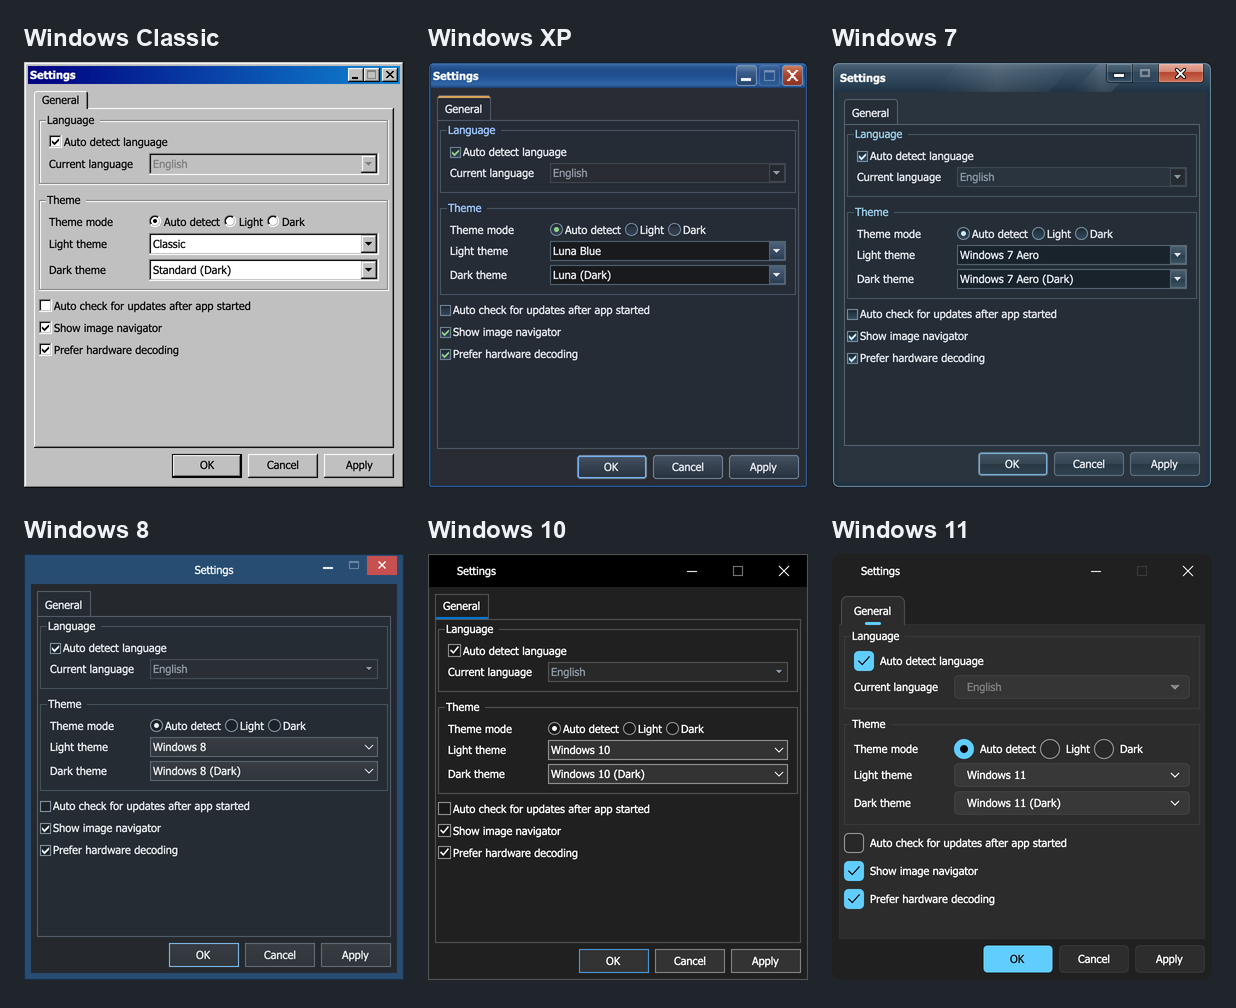
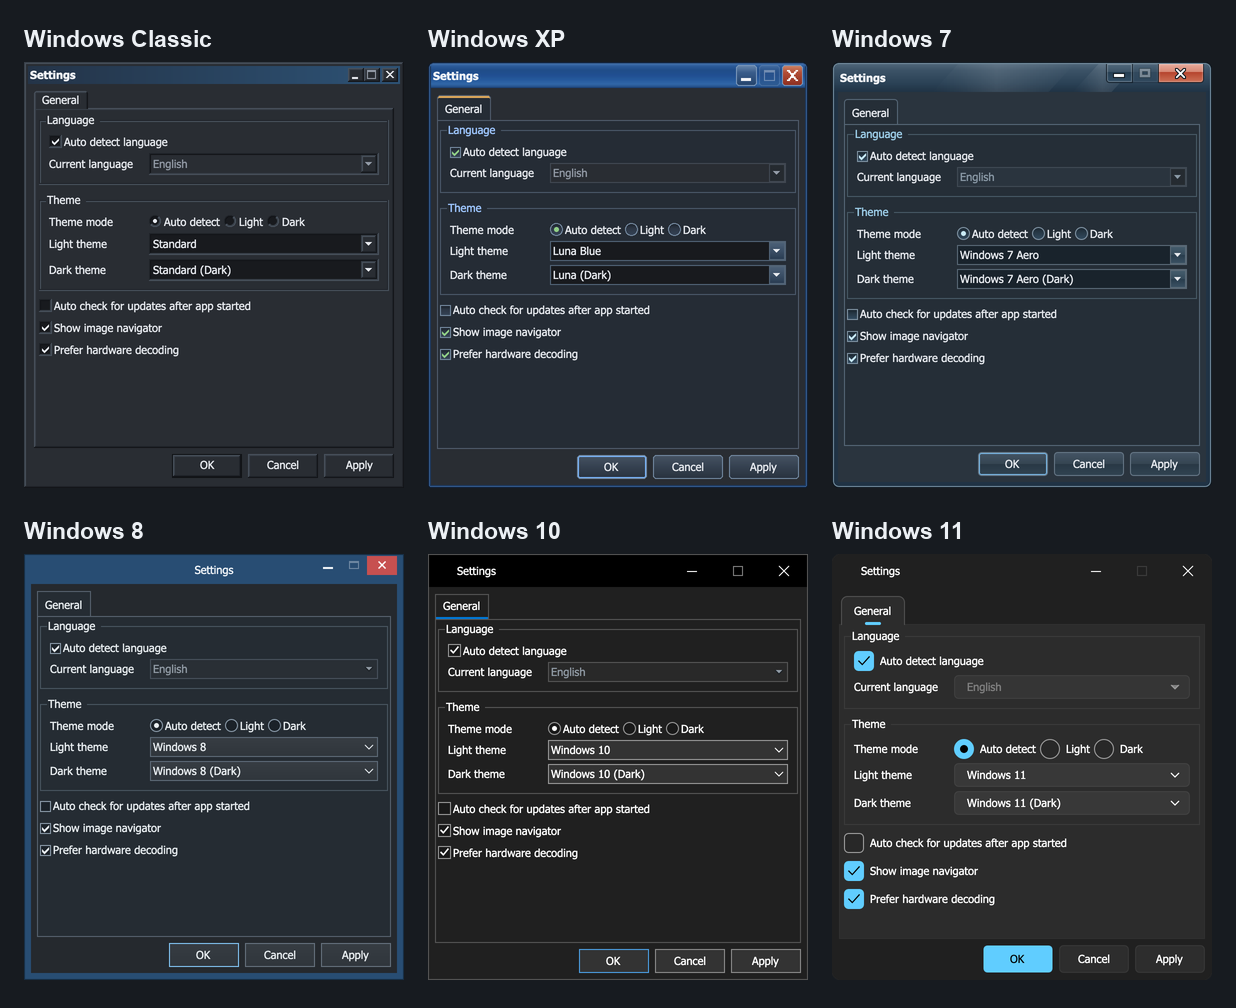
fix: distinguish disabled Windows 10 caption buttons and refresh theme previews

diff --git a/src/TSCutter.GUI.Tests/ThemeSwitchTests.cs b/src/TSCutter.GUI.Tests/ThemeSwitchTests.cs
@@ -405,6 +405,8 @@ public sealed class ThemeSwitchTests
                 Flush();
                 var maximize = window.GetVisualDescendants().OfType<Button>()
                     .Single(control => control.Name == "PART_RestoreButton");
+                var minimize = window.GetVisualDescendants().OfType<Button>()
+                    .Single(control => control.Name == "PART_MinimizeButton");
                 var caption = window.GetVisualDescendants().OfType<Border>()
                     .Single(control => control.Name == "PART_GradientBar");
                 foreach (var active in new[] { true, false })
@@ -425,8 +427,19 @@ public sealed class ThemeSwitchTests
                     var second = Luminance(background) + 0.05;
                     Assert.True(Math.Max(first, second) / Math.Min(first, second) >= 2,
                         "Disabled maximize should remain distinguishable on the caption background.");
+                    if (!dark)
+                    {
+                        Assert.True(minimize.IsEffectivelyEnabled);
+                        var enabled = Assert.IsAssignableFrom<ISolidColorBrush>(minimize.Foreground).Color;
+                        var enabledLuminance = Luminance(enabled) + 0.05;
+                        Assert.True(Math.Max(first, enabledLuminance) / Math.Min(first, enabledLuminance) >= 1.8,
+                            "Disabled maximize should look different from enabled caption buttons in both activation states.");
+                    }
                     var point = maximize.TranslatePoint(new Point(23, 16), window)!.Value;
                     window.MouseMove(point);
+                    Flush();
+                    Assert.Equal(foreground, Assert.IsAssignableFrom<ISolidColorBrush>(maximize.Foreground).Color);
+                    Assert.Equal(0, Assert.IsAssignableFrom<ISolidColorBrush>(maximize.Background).Color.A);
                     window.MouseDown(point, MouseButton.Left);
                     window.MouseUp(point, MouseButton.Left);
                     Flush();

diff --git a/docs/THEMES.md b/docs/THEMES.md
@@ -2,7 +2,7 @@
 
 [中文版](THEMES_CN.md) | [Back to README](../README.md)
 
-Six theme families, with one representative palette for Classic. Switch families with **View → Theme**, or choose light and dark palettes independently in **Tools → Settings**. **Auto detect** follows the system appearance.
+Six theme families. Classic shows one light palette and Standard (Dark). Switch families with **View → Theme**, or choose light and dark palettes independently in **Tools → Settings**. **Auto detect** follows the system appearance.
 
 Previews use the same Settings window, dimensions, and English interface. Click an image for its original size. Aero and Windows 11 show the solid-background fallback; blur and Mica depend on platform support. Dark palettes include this application's adaptations of classic Windows styles.
 
@@ -10,7 +10,9 @@ Window corners depend on the host system: Aero and Windows 11 themes retain roun
 
 ## Windows Classic
 
-<a href="../img/themes/classic.png"><img src="../img/themes/classic.png" alt="Classic" width="380"></a>
+| Classic | Standard (Dark) |
+| :---: | :---: |
+| <a href="../img/themes/classic.png"><img src="../img/themes/classic.png" alt="Classic" width="380"></a> | <a href="../img/themes/dark-standard.png"><img src="../img/themes/dark-standard.png" alt="Standard (Dark)" width="380"></a> |
 
 ## Windows XP
 

diff --git a/docs/THEMES_CN.md b/docs/THEMES_CN.md
@@ -2,7 +2,7 @@
 
 [English](THEMES.md) | [返回 README](../README_CN.md)
 
-按六个主题系列展示，Classic 选取一套代表配色。通过 **视图 → 主题** 快速切换系列，或在 **工具 → 设置** 中分别选择浅色、深色配色；**自动检测** 会跟随系统外观。
+按六个主题系列展示，Classic 展示一套浅色配色及 Standard (Dark) 深色配色。通过 **视图 → 主题** 快速切换系列，或在 **工具 → 设置** 中分别选择浅色、深色配色；**自动检测** 会跟随系统外观。
 
 以下截图使用相同的设置窗口、尺寸和英文界面，点击可查看原图。Aero 与 Windows 11 展示实色回退外观，实际模糊或 Mica 材质取决于平台支持。深色配色包含本应用对经典 Windows 风格的扩展。
 
@@ -10,7 +10,9 @@
 
 ## Windows Classic
 
-<a href="../img/themes/classic.png"><img src="../img/themes/classic.png" alt="Classic" width="380"></a>
+| Classic | Standard (Dark) |
+| :---: | :---: |
+| <a href="../img/themes/classic.png"><img src="../img/themes/classic.png" alt="Classic" width="380"></a> | <a href="../img/themes/dark-standard.png"><img src="../img/themes/dark-standard.png" alt="Standard (Dark)" width="380"></a> |
 
 ## Windows XP
 
